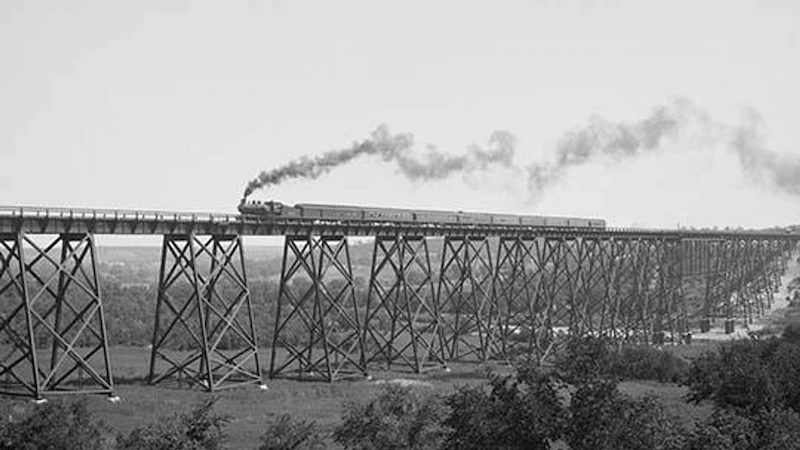
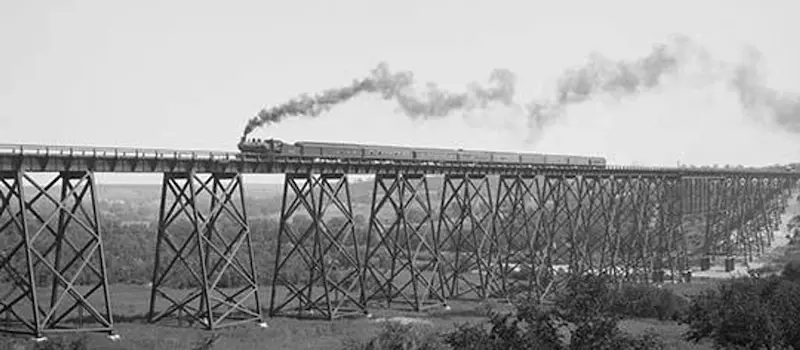
created shorter version of hero image for mobile view

diff --git a/chamber/styles/larger.css b/chamber/styles/larger.css
@@ -23,6 +23,13 @@
         border-right: 1px solid white;
     }
 
+    .hero-div {
+        max-width: 800px;
+        height: 350px;
+        background-image: url("../images/kate-shelley-high-bridge-optimized.webp");
+        background-position: center center;
+    }
+
     footer {
         display: grid;
         grid-template-columns: 1fr 1fr 1fr;

diff --git a/chamber/styles/small.css b/chamber/styles/small.css
@@ -93,8 +93,8 @@ nav a {
 
 .hero-div {
     max-width: 800px;
-    height: 350px;
-    background-image: url("../images/kate-shelley-high-bridge-optimized.webp");
+    height: 275px;
+    background-image: url("../images/kate-shelley-high-bridge-optimized-cropped.webp");
     background-position: center center;
 }
 
